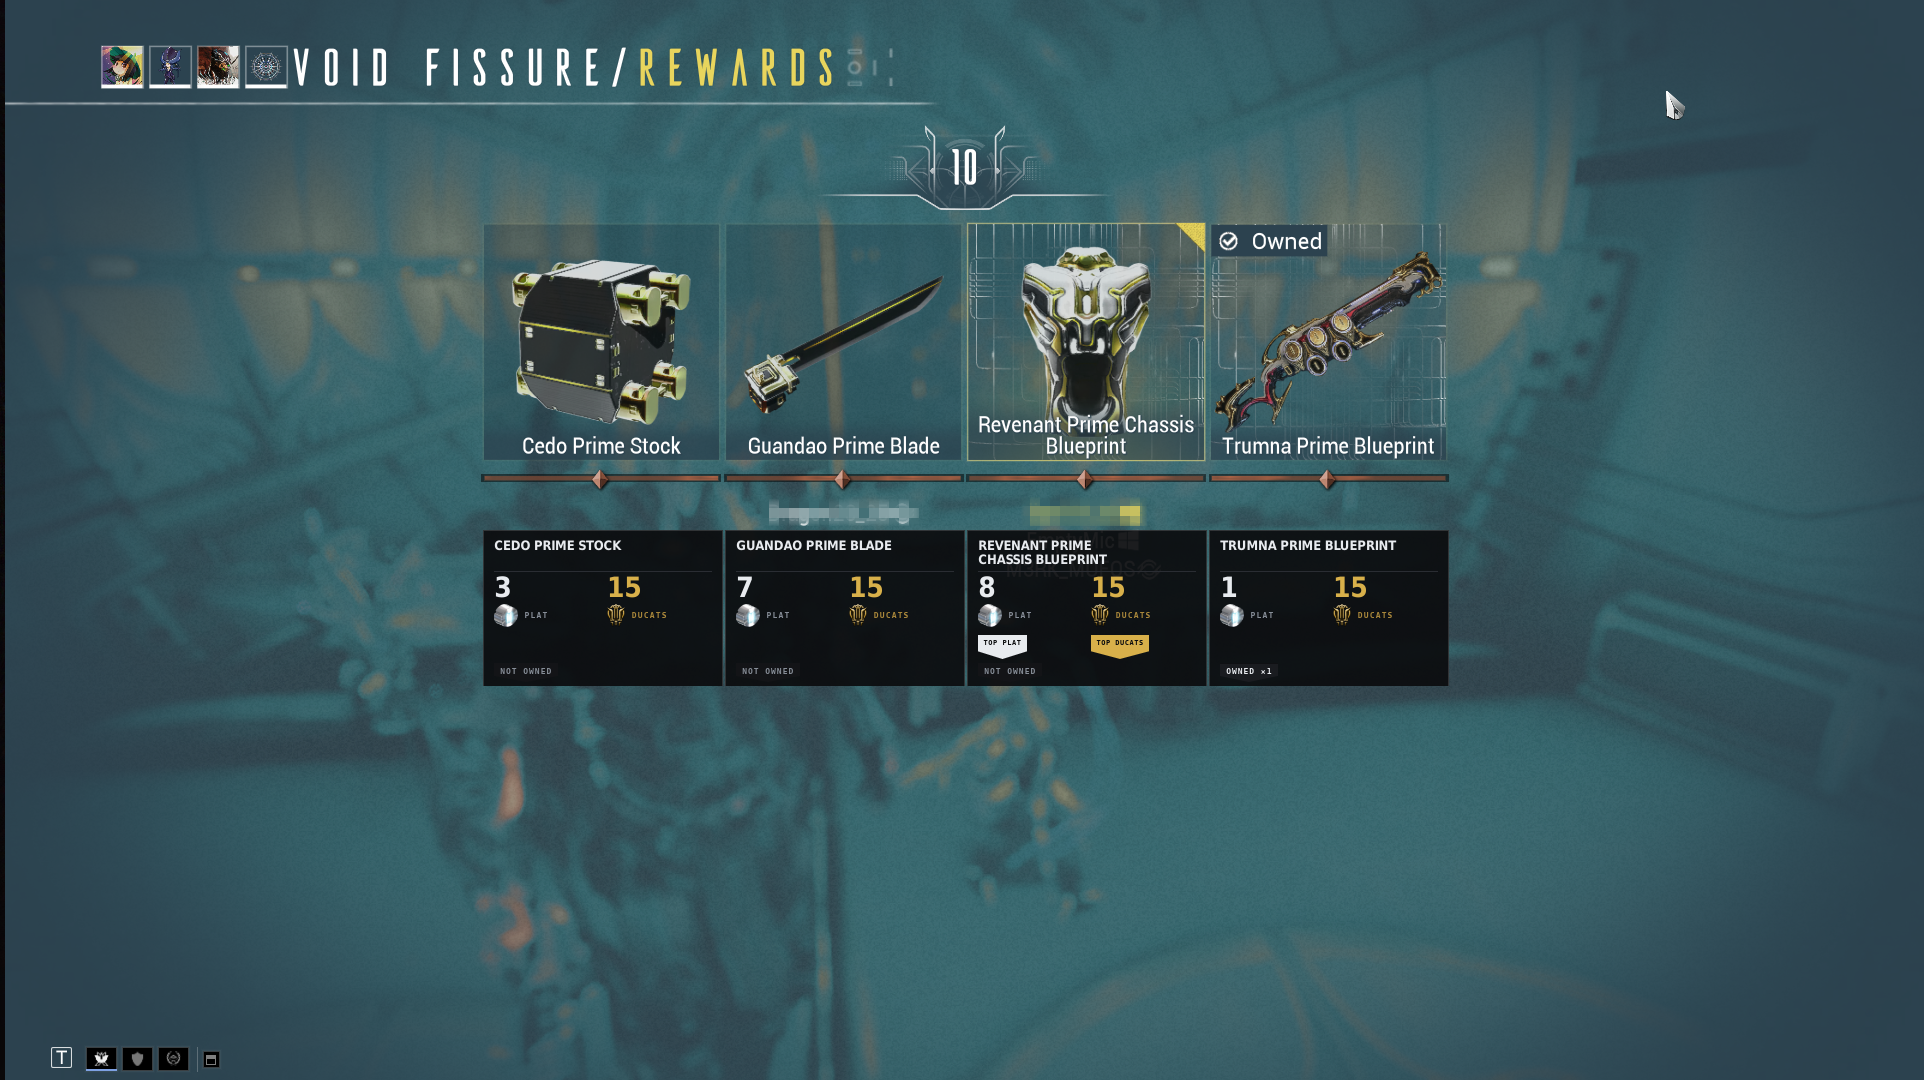
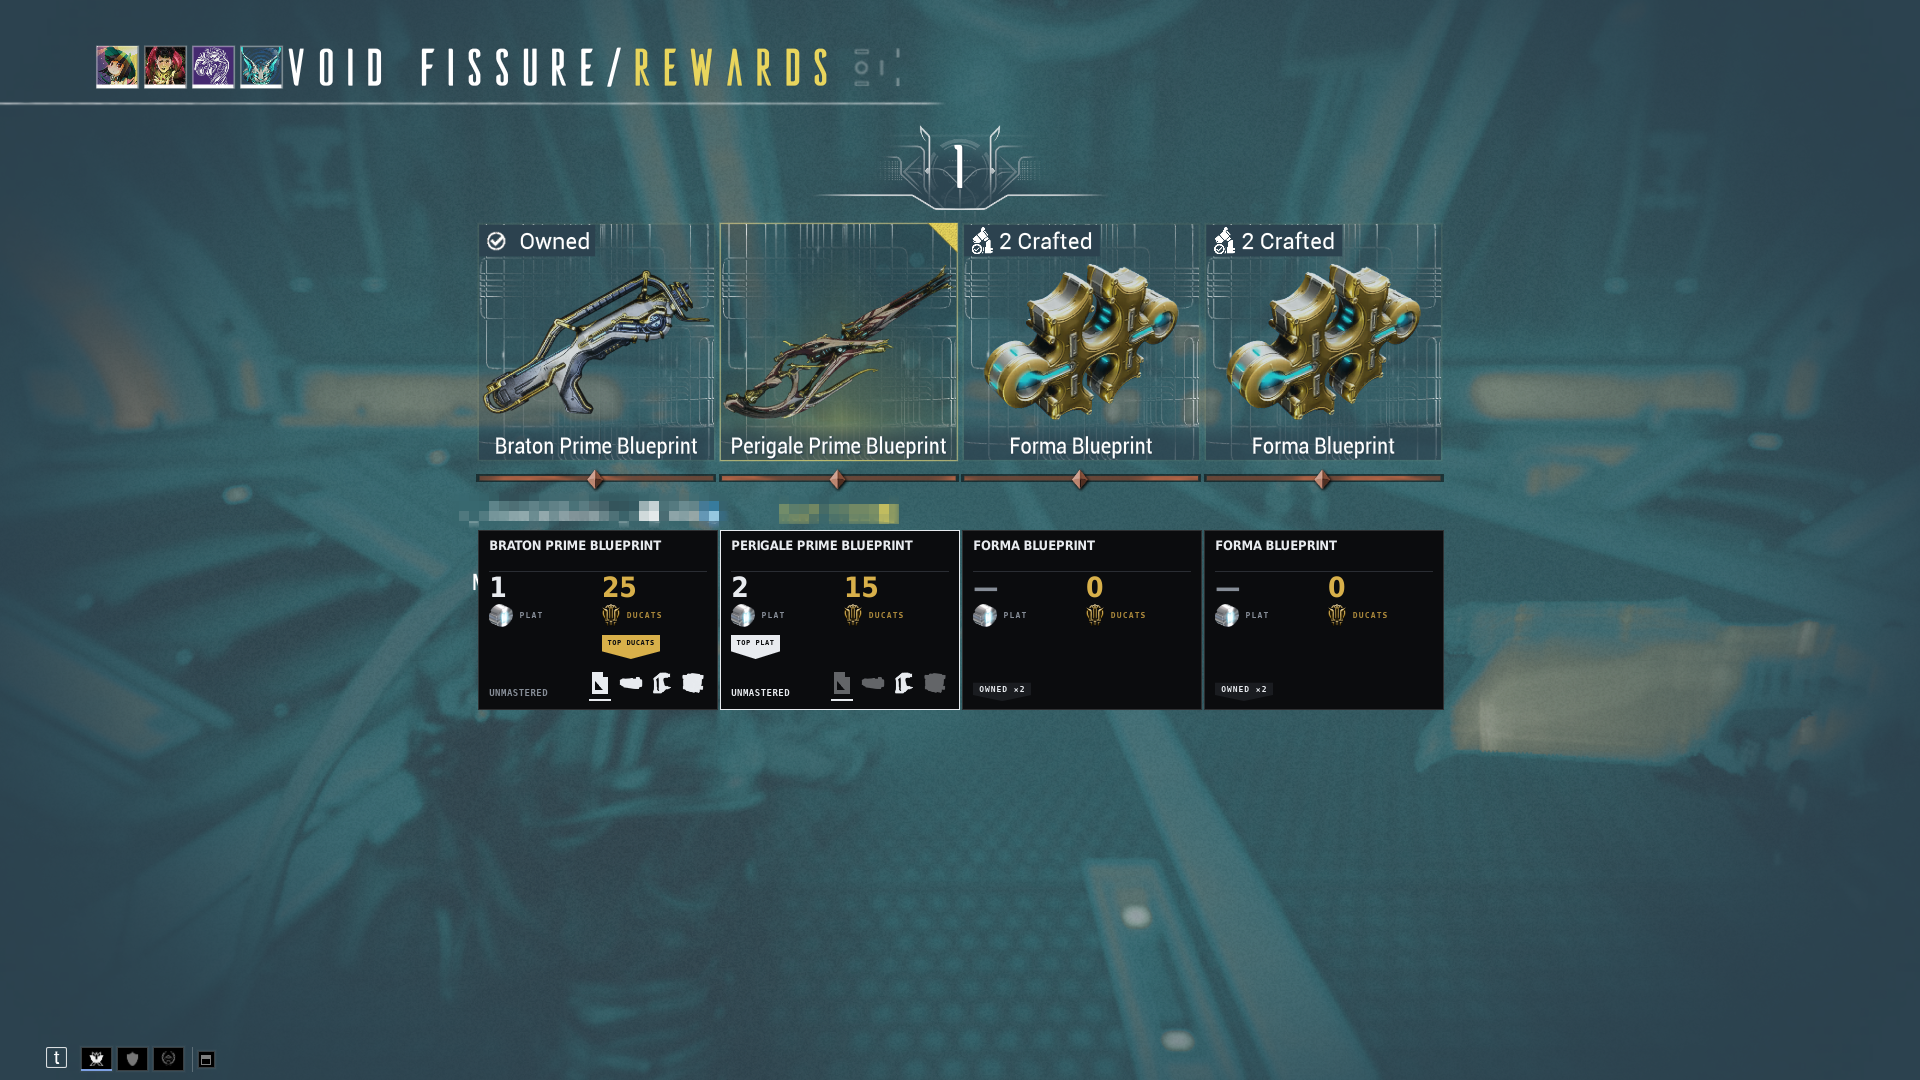
docs: show mastery marks in the reward overlay screenshot
The reward screenshot predated the marks, and its slips let the game
show through: a squadmate's name read faintly behind one of them. The
new capture is a 1080p Void Fissure screen on this branch's build, with
opaque slips, Unmastered and the set row on a Braton Prime and a
Perigale Prime Blueprint, the ruled edge on the Perigale blueprint the
player is missing, and an owned line on two Forma Blueprints.
Squadmates' names are pixelated. The alt text now says what it shows.

Its Forma slips read Owned ×2, the two built Forma the player held:
the capture predates the owned-line fix, after which the same screen
counts their eleven Forma blueprints.

diff --git a/README.md b/README.md
@@ -30,7 +30,7 @@ inventory Full access syncs, so on Overlay access a slip can vouch only for what
 already mastered and shows a dash otherwise. It prices the whole squad's relic pool using
 sellers who are in game right now, without taking focus from the game.
 
-![The reward overlay on a Warframe Void Fissure reward screen, with a platinum figure, a ducat figure and an owned or not owned line under each card](docs/screenshots/reward-overlay.png)
+![The reward overlay on a Warframe Void Fissure reward screen: platinum and ducat figures under each card, an Unmastered mark with the set's parts as silhouettes on the Braton Prime and Perigale Prime blueprints, a ruled edge on the Perigale blueprint you are missing, and an owned count on the two Forma Blueprints](docs/screenshots/reward-overlay.png)
 
 <div align="center">
 
